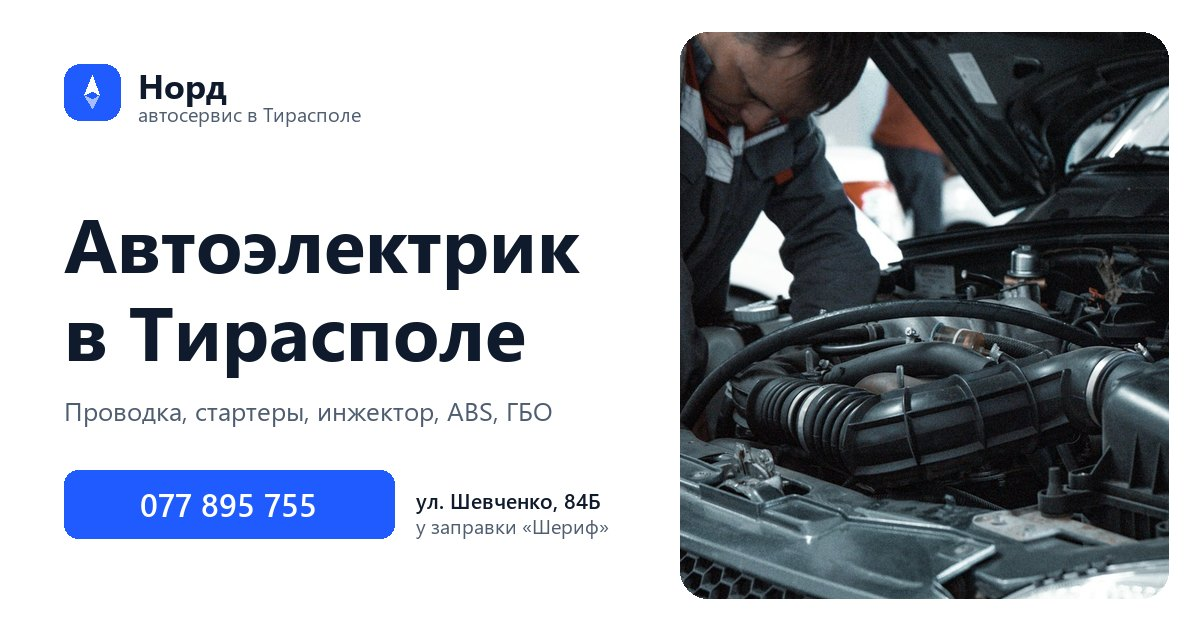
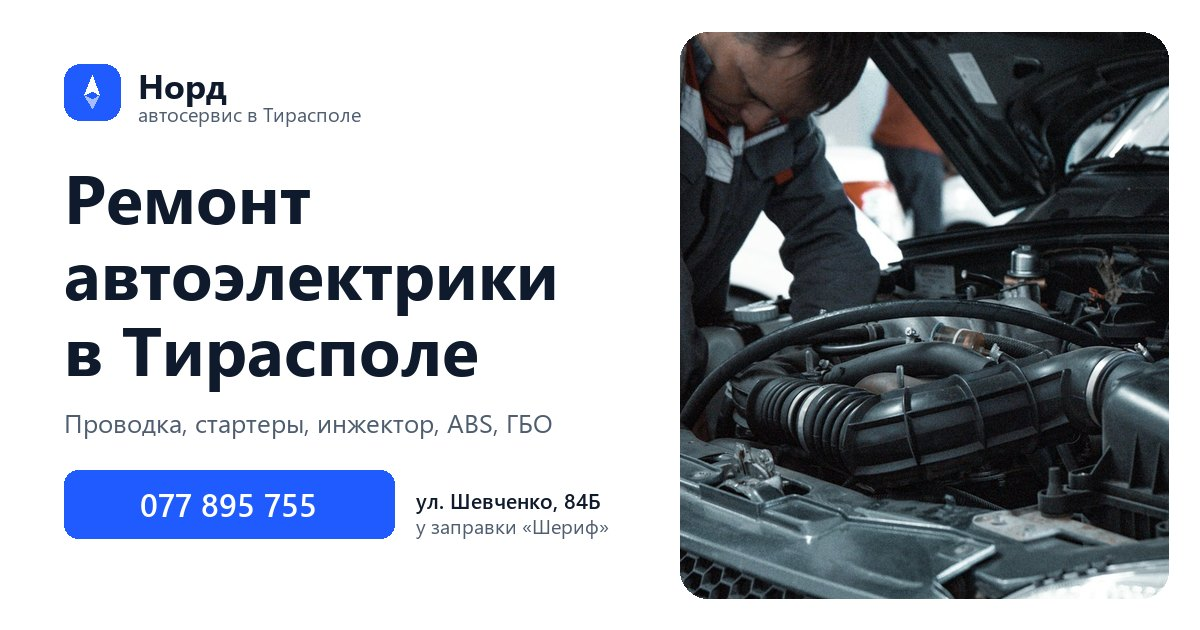
Тексты от услуги: «Ремонт автоэлектрики в Тирасполе», блок «Кто ремонтирует»; новое превью

Changed region(s): [[0.0308, 0.2714, 0.4933, 0.6937]]

diff --git a/index.html b/index.html
@@ -4,9 +4,9 @@
   <script>document.documentElement.classList.add('js')</script>
   <meta charset="utf-8">
   <meta name="viewport" content="width=device-width, initial-scale=1, viewport-fit=cover">
-  <title>Автоэлектрик в Тирасполе — автосервис «Норд», ремонт ГБО и ABS</title>
-  <meta name="description" content="Автоэлектрик в Тирасполе: проводка, стартеры и генераторы, инжектор, промывка форсунок, ABS, ремонт ГБО и ЭБУ. Ул. Шевченко 84Б, у «Шерифа». ☎ 077 895 755">
-  <meta name="keywords" content="автоэлектрик Тирасполь, автосервис Тирасполь, СТО Тирасполь, ремонт ГБО Тирасполь, настройка ГБО Тирасполь, ремонт стартера Тирасполь, ремонт генератора Тирасполь, проверка зарядки, ремонт электропроводки авто Тирасполь, ремонт инжектора Тирасполь, промывка форсунок Тирасполь, ультразвуковая промывка форсунок, ремонт заводского ГБО VW Opel Iveco, ремонт блока управления ГБО, замена бензонасоса, ремонт ЭБУ Тирасполь, замена свечей зажигания, ремонт ABS Тирасполь, программирование ABS ESP, проверка меток ГРМ, компьютерная диагностика авто Тирасполь, автоэлектрик ПМР, автоэлектрик Бендеры, автоэлектрик Приднестровье">
+  <title>Ремонт автоэлектрики в Тирасполе — автосервис «Норд»</title>
+  <meta name="description" content="Ремонт автоэлектрики в Тирасполе: проводка, стартеры и генераторы, инжектор, промывка форсунок, ABS, ГБО и блоки управления. Ул. Шевченко 84Б, у «Шерифа». ☎ 077 895 755">
+  <meta name="keywords" content="ремонт автоэлектрики Тирасполь, автоэлектрик Тирасполь, автосервис Тирасполь, СТО Тирасполь, ремонт ГБО Тирасполь, настройка ГБО Тирасполь, ремонт стартера Тирасполь, ремонт генератора Тирасполь, проверка зарядки, ремонт электропроводки авто Тирасполь, ремонт инжектора Тирасполь, промывка форсунок Тирасполь, ультразвуковая промывка форсунок, ремонт заводского ГБО VW Opel Iveco, ремонт блока управления ГБО, замена бензонасоса, ремонт ЭБУ Тирасполь, замена свечей зажигания, ремонт ABS Тирасполь, программирование ABS ESP, проверка меток ГРМ, компьютерная диагностика авто Тирасполь, автоэлектрик ПМР, автоэлектрик Бендеры, автоэлектрик Приднестровье">
   <meta name="robots" content="index, follow, max-image-preview:large">
   <meta name="author" content="Автосервис «Норд»">
   <link rel="canonical" href="https://bogdanaichannel-coder.github.io/nord-autoservice/">
@@ -24,7 +24,7 @@
   <meta property="og:type" content="website">
   <meta property="og:locale" content="ru_RU">
   <meta property="og:site_name" content="Автосервис «Норд»">
-  <meta property="og:title" content="Автоэлектрик в Тирасполе — автосервис «Норд»">
+  <meta property="og:title" content="Ремонт автоэлектрики в Тирасполе — автосервис «Норд»">
   <meta property="og:description" content="Проводка, стартеры и генераторы, инжектор, промывка форсунок, ABS/ESP, ГБО и ЭБУ. Ул. Шевченко 84Б, у заправки «Шериф». ☎ 077 895 755">
   <meta property="og:url" content="https://bogdanaichannel-coder.github.io/nord-autoservice/">
   <meta property="og:image" content="https://bogdanaichannel-coder.github.io/nord-autoservice/img/og.jpg">
@@ -32,13 +32,13 @@
   <meta property="og:image:type" content="image/jpeg">
   <meta property="og:image:width" content="1200">
   <meta property="og:image:height" content="630">
-  <meta property="og:image:alt" content="Автосервис «Норд» — автоэлектрик в Тирасполе, телефон 077 895 755">
+  <meta property="og:image:alt" content="Ремонт автоэлектрики в Тирасполе — автосервис «Норд», телефон 077 895 755">
   <meta property="business:contact_data:street_address" content="ул. Шевченко, 84Б">
   <meta property="business:contact_data:locality" content="Тирасполь">
   <meta property="business:contact_data:country_name" content="Приднестровье">
   <meta property="business:contact_data:phone_number" content="+37377895755">
   <meta name="twitter:card" content="summary_large_image">
-  <meta name="twitter:title" content="Автоэлектрик в Тирасполе — автосервис «Норд»">
+  <meta name="twitter:title" content="Ремонт автоэлектрики в Тирасполе — автосервис «Норд»">
   <meta name="twitter:description" content="Проводка, стартеры, инжектор, ABS/ESP, ГБО. Ул. Шевченко 84Б, у «Шерифа». ☎ 077 895 755">
   <meta name="twitter:image" content="https://bogdanaichannel-coder.github.io/nord-autoservice/img/og.jpg">
 
@@ -69,9 +69,9 @@
       "alternateName": [
         "Норд",
         "СТО Норд Тирасполь",
-        "Автоэлектрик Норд"
+        "Ремонт автоэлектрики Норд"
       ],
-      "description": "Автоэлектрик в Тирасполе: ремонт электропроводки автомобиля; ремонт стартеров и генераторов, проверка зарядки; компьютерная диагностика и дефектовка мотора; ремонт инжектора и системы впрыска, замена бензонасосов; промывка форсунок химическая и ультразвуком; диагностика и ремонт системы зажигания; ремонт ЭБУ двигателя и блоков управления ГБО; диагностика и ремонт ABS, программирование ABS/ESP; проверка и ремонт ГБО, в том числе заводского (VW, Opel, Iveco).",
+      "description": "Ремонт автоэлектрики в Тирасполе: ремонт электропроводки автомобиля; ремонт стартеров и генераторов, проверка зарядки; компьютерная диагностика и дефектовка мотора; ремонт инжектора и системы впрыска, замена бензонасосов; промывка форсунок химическая и ультразвуком; диагностика и ремонт системы зажигания; ремонт ЭБУ двигателя и блоков управления ГБО; диагностика и ремонт ABS, программирование ABS/ESP; проверка и ремонт ГБО, в том числе заводского (VW, Opel, Iveco).",
       "url": "https://bogdanaichannel-coder.github.io/nord-autoservice/",
       "logo": "https://bogdanaichannel-coder.github.io/nord-autoservice/img/icon-512.png",
       "image": "https://bogdanaichannel-coder.github.io/nord-autoservice/img/og.jpg",
@@ -337,7 +337,7 @@
     </a>
     <nav class="nav" aria-label="Разделы">
       <a href="#services">Услуги</a>
-      <a href="#master">О мастере</a>
+      <a href="#master">Мастер</a>
       <a href="#route">Как добраться</a>
       <a href="#faq">Вопросы</a>
       <a href="#contacts">Контакты</a>
@@ -354,8 +354,8 @@
   <section class="hero">
     <div class="wrap hero__grid">
       <div class="hero__copy">
-        <h1><span class="ln"><span>Автоэлектрик</span></span> <span class="ln"><span>в&nbsp;Тирасполе</span></span></h1>
-        <p class="hero__lead">Проводка, стартеры и генераторы, инжектор, ABS и электроника ГБО. Находим причину неисправности, а не меняем детали наугад.</p>
+        <h1><span class="ln"><span>Ремонт</span></span> <span class="ln"><span>автоэлектрики</span></span> <span class="ln"><span>в&nbsp;Тирасполе</span></span></h1>
+        <p class="hero__lead">Проводка, стартеры и генераторы, инжектор и промывка форсунок, ABS, ГБО и блоки управления. Сначала находим причину неисправности, потом ремонтируем — без замены деталей наугад.</p>
         <div class="hero__actions">
           <a class="btn btn--primary btn--lg" href="tel:+37377895755">
             <svg class="ic"><use href="#i-phone"/></svg>Позвонить мастеру
@@ -380,7 +380,7 @@
       </div>
 
       <figure class="hero__media">
-        <img src="img/hero.jpg" alt="Автоэлектрик в Тирасполе проверяет электрику под капотом автомобиля" width="1600" height="900">
+        <img src="img/hero.jpg" alt="Ремонт автоэлектрики в Тирасполе: проверка электрики под капотом автомобиля" width="1600" height="900">
         <figcaption class="status" id="status" hidden>
           <span class="status__dot" aria-hidden="true"></span>
           <span class="status__text"></span>
@@ -393,8 +393,8 @@
   <section class="block" id="services">
     <div class="wrap">
       <header class="block__head">
-        <h2>Услуги</h2>
-        <p>Легковые автомобили и микроавтобусы. Стоимость называем после диагностики, когда понятно, что именно сломалось.</p>
+        <h2>Что ремонтируем</h2>
+        <p>Легковые автомобили и микроавтобусы. Стоимость ремонта называем после диагностики, когда понятно, что именно сломалось.</p>
       </header>
 
       <ul class="services">
@@ -456,9 +456,9 @@
   <section class="block block--surface" id="master">
     <div class="wrap master">
       <div class="master__copy">
-        <h2>Владимир Николаевич</h2>
-        <p class="master__role">Автоэлектрик, более 25&nbsp;лет в&nbsp;профессии</p>
-        <p>Начинал, когда вся электрика в машине была на проводах и реле. С тех пор прошёл путь до блоков управления, CAN-шин и газовой электроники и работает с ними каждый день.</p>
+        <h2>Кто ремонтирует</h2>
+        <p class="master__role">Владимир Николаевич, мастер-автоэлектрик с&nbsp;опытом более 25&nbsp;лет</p>
+        <p>Начинал, когда вся электрика в машине была на проводах и реле, и с тех пор освоил блоки управления, CAN-шины и газовую электронику. Поэтому берётся и за простую проводку, и за сложную электронику.</p>
         <ul class="checks">
           <li><svg class="ic"><use href="#i-check"/></svg>Машину принимает и ремонтирует сам, без посредников</li>
           <li><svg class="ic"><use href="#i-check"/></svg>До начала работ говорит, что сломано и сколько это стоит</li>
@@ -553,7 +553,7 @@
 
 <footer class="footer">
   <div class="wrap footer__inner">
-    <p>© <span id="year">2026</span> Автосервис «Норд» — автоэлектрик в Тирасполе</p>
+    <p>© <span id="year">2026</span> Автосервис «Норд» — ремонт автоэлектрики в Тирасполе</p>
     <p>Тирасполь, ул. Шевченко, 84Б, <a href="tel:+37377895755">077 895 755</a></p>
   </div>
 </footer>

diff --git a/styles.css b/styles.css
@@ -78,7 +78,7 @@ figure { margin: 0; }
 .hero { padding: 56px 0 72px; }
 .hero__grid { display: grid; grid-template-columns: 1.1fr 1fr; gap: 48px; align-items: center; }
 .hero h1 {
-  font-size: clamp(40px, 5.6vw, 76px); line-height: 1; font-weight: 800; letter-spacing: -0.045em;
+  font-size: clamp(40px, 5.2vw, 72px); line-height: 1; font-weight: 800; letter-spacing: -0.045em;
 }
 .hero__lead { margin-top: 24px; font-size: 19px; line-height: 1.55; color: var(--ink-2); max-width: 30em; }
 .hero__actions { display: flex; flex-wrap: wrap; gap: 12px; margin-top: 36px; }
@@ -462,4 +462,11 @@ figure { margin: 0; }
     grid-column: 2; grid-row: 1 / span 2; margin: 0; padding: 14px 22px;
     border-radius: var(--r-sm); background: #fff; color: var(--blue); font-size: 20px;
   }
+}
+
+@media (prefers-reduced-motion: no-preference) {
+  .hero h1 .ln + .ln + .ln > span { animation-delay: .34s; }
+  .hero__lead    { animation-delay: .55s; }
+  .hero__actions { animation-delay: .68s; }
+  .hero__meta    { animation-delay: .82s; }
 }
